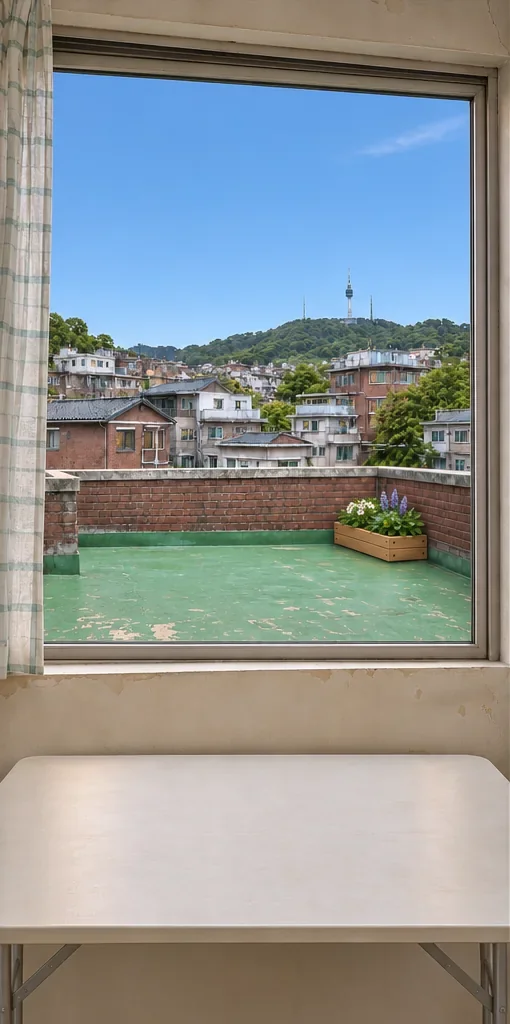
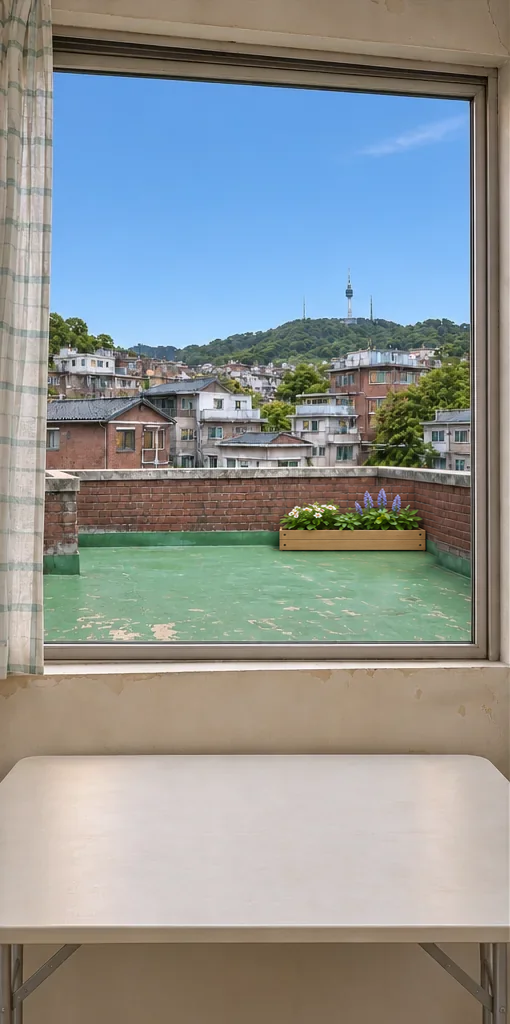
fix: sync moving surf and horizontal planter previews

Changed region(s): [[0.5294, 0.4688, 0.8529, 0.5625]]

diff --git a/web/premium-scene-previews.js b/web/premium-scene-previews.js
@@ -190,8 +190,9 @@
     }
   }
 
-  const imageRevision = '?v=day-framing-wind-2';
+  const imageRevision = '?v=day-framing-wind-3';
   const surfPhoto = 'assets/premium-scene-previews/east-sea-lighthouse-wind-surf.webp';
+  const surfLoop = 'assets/premium-scene-previews/east-sea-lighthouse-surf-loop.webp';
   const language = () => /^en/i.test(root.document.documentElement.lang) ? 1 : 0;
 
   function viewState({ time, weather, temperature, wind = false }) {
@@ -247,6 +248,9 @@
     const roughSea = scene.id === 'east-sea-lighthouse' ? doc.createElement('img') : null;
     const waterCanvas = water[scene.id] ? makeCanvas(artwork, 'WindWater') : null;
     const waterContext = waterCanvas?.getContext?.('2d');
+    const surfMask = roughSea ? layer(artwork, 'SurfMask') : null;
+    const animatedSurf = surfMask ? layer(surfMask, 'SurfLoop', 'img') : null;
+    if (surfMask) surfMask.hidden = true;
     const treeMask = layer(artwork, 'TreeMask');
     const trees = makeCanvas(treeMask, 'SwayingTrees');
     const treeContext = trees.getContext?.('2d');
@@ -295,7 +299,10 @@
     let waterFrame = 0;
     let lastFrame = -Infinity;
     let waterPhase = 0;
+    let surfRequested = false;
+    let surfFailed = false;
     const motion = root.matchMedia?.('(prefers-reduced-motion: reduce)');
+    const playWater = () => wind.value === 'on' || !motion?.matches;
     function stopWater() {
       if (waterFrame) root.cancelAnimationFrame(waterFrame);
       waterFrame = 0;
@@ -303,7 +310,7 @@
     }
     function animateWater(now) {
       waterFrame = 0;
-      if (stage.dataset.wind !== 'true' || !registered || motion?.matches || doc.hidden) return;
+      if (stage.dataset.wind !== 'true' || !registered || !playWater() || doc.hidden) return;
       if (now - lastFrame > 30) {
         if (Number.isFinite(lastFrame)) waterPhase += (now - lastFrame) / 1000;
         paintWater(waterContext, normalized, scene.id, waterPhase, stage.dataset.time, roughSea);
@@ -312,8 +319,29 @@
       waterFrame = root.requestAnimationFrame(animateWater);
     }
     function updateWater(refresh = false) {
+      const windy = stage.dataset.wind === 'true' && registered;
+      const showMotion = windy && playWater();
+      if (animatedSurf) {
+        if (showMotion && !surfRequested && !surfFailed) {
+          surfRequested = true;
+          animatedSurf.src = resolve(surfLoop);
+        } else if (!showMotion && surfRequested) {
+          surfRequested = false;
+          surfFailed = false;
+          animatedSurf.removeAttribute('src');
+        }
+        const playing = showMotion && surfRequested && !surfFailed &&
+          animatedSurf.complete && animatedSurf.naturalWidth > 0;
+        surfMask.hidden = !playing;
+        // The image decoder keeps the surf moving without page animation frames.
+        if (waterCanvas) waterCanvas.hidden = playing;
+        if (playing) {
+          stopWater();
+          return;
+        }
+      }
       if (!waterContext) return;
-      if (stage.dataset.wind !== 'true' || !registered) {
+      if (!windy) {
         stopWater();
         waterPhase = 0;
         waterContext.clearRect(0, 0, waterCanvas.width, waterCanvas.height);
@@ -324,7 +352,7 @@
       if (refresh || !waterFrame) {
         paintWater(waterContext, normalized, scene.id, waterPhase, stage.dataset.time, roughSea);
       }
-      if (motion?.matches || doc.hidden) stopWater();
+      if (!showMotion || doc.hidden) stopWater();
       else if (!waterFrame) {
         waterFrame = root.requestAnimationFrame(animateWater);
       }
@@ -352,6 +380,13 @@
       updateWater();
     });
     const refreshWater = () => updateWater(true);
+    const useStaticSurf = () => {
+      if (!surfRequested) return;
+      surfFailed = true;
+      refreshWater();
+    };
+    animatedSurf?.addEventListener('load', refreshWater);
+    animatedSurf?.addEventListener('error', useStaticSurf);
     if (roughSea) {
       roughSea.addEventListener('load', refreshWater);
       roughSea.src = resolve(surfPhoto);
@@ -402,6 +437,9 @@
     return () => {
       root.clearInterval(timer);
       stopWater();
+      animatedSurf?.removeEventListener('load', refreshWater);
+      animatedSurf?.removeEventListener('error', useStaticSurf);
+      if (surfRequested) animatedSurf.removeAttribute('src');
       roughSea?.removeEventListener('load', refreshWater);
       motion?.removeEventListener?.('change', refreshWater);
       doc.removeEventListener('visibilitychange', refreshWater);

diff --git a/design/prototypes/bloombreak-premium-backgrounds.html b/design/prototypes/bloombreak-premium-backgrounds.html
@@ -4,7 +4,7 @@
 <meta charset="utf-8">
 <meta name="viewport" content="width=device-width,initial-scale=1">
 <title>BloomBreak 유료 배경 미리보기</title>
-<link rel="stylesheet" href="../../web/premium-scene-previews.css?v=surf-visibility-1">
+<link rel="stylesheet" href="../../web/premium-scene-previews.css?v=surf-loop-1">
 <style>
 body{margin:0;padding:1rem;font:1rem system-ui,sans-serif;background:#f4f3ed;color:#202b24}
 main{max-width:65rem;margin:auto}h1{font-size:1.5rem}h2{font-size:1rem}
@@ -12,13 +12,14 @@ details{padding:.5rem .8rem;background:#fff;border-radius:.6rem}
 #previews{display:grid;grid-template-columns:repeat(auto-fit,minmax(16rem,1fr));gap:1rem}
 section{padding:.75rem;background:#fff;border-radius:.8rem}
 </style>
-<script src="../../web/premium-scene-previews.js?v=surf-visibility-1" defer></script>
+<script src="../../web/premium-scene-previews.js?v=surf-loop-1" defer></script>
 </head>
 <body>
 <main>
 <h1>유료 배경 미리보기</h1>
 <details id="design-history" open>
-<summary>수정 이력 · v1.5.1</summary>
+<summary>수정 이력 · v1.6.0</summary>
+<p>2026-11-21 · v1.6.0 · 바람을 직접 켜면 동해의 파도와 흰 포말이 3초 주기로 이어서 움직인다. 서울 옥탑방의 화단은 뒤쪽 난간과 나란하도록 가로로 배치했다.</p>
 <p>2026-11-21 · v1.5.1 · 동해는 바람을 켜면 첫 화면부터 바위 앞 파도와 흰 포말을 표시한다. 기기의 동작 줄이기 설정에서도 정지한 파도가 보인다.</p>
 <p>2026-11-21 · v1.5.0 · 옥탑방·동해 등대집은 낮 원본 좌표에 노을과 밤의 하늘·조명을 합성. 바람을 날씨에서 분리. 동해에 큰 쇄파와 포말, 호숫가에 잔잔한 물결과 반사를 표현. APK 발행 전.</p>
 <p>2026-11-21 · v1.4.0 · 서울 옥탑방 오른쪽의 에어컨 실외기를 작은 나무 화단으로 교체. 세 시간대의 맑음·비·눈 배경에 반영. APK 발행 전.</p>

diff --git a/web/premium-scene-previews.css b/web/premium-scene-previews.css
@@ -30,7 +30,7 @@
   --bb-water: polygon(14.5% 42%, 100% 41%, 100% 53.6%, 89% 50.5%, 71.2% 48.6%, 65% 51.5%, 91% 61.8%, 54% 59%, 14.5% 54.5%);
 }
 .bbPremiumRegisteredPlate, .bbPremiumWindowLayer, .bbPremiumTreeMask, .bbPremiumWeatherShade, .bbPremiumCloudMask,
-.bbPremiumPrecipitation, .bbPremiumWindWater { position: absolute; inset: 0; pointer-events: none; }
+.bbPremiumPrecipitation, .bbPremiumWindWater, .bbPremiumSurfMask { position: absolute; inset: 0; pointer-events: none; }
 .bbPremiumWindowLayer { clip-path: var(--bb-window); transform-origin: top left; }
 .bbPremiumPreviewStage[data-scene="seoul-rooftop"] .bbPremiumWindowLayer {
   clip-path: polygon(9.2% 6.9%, 12.1% 6.9%, 25% 12.6%, 25% 44.2%, 12.1% 48.5%, 9.2% 48.5%);
@@ -44,7 +44,15 @@
 .bbPremiumPreviewStage[data-wind="true"] :is(.bbPremiumTreeMask, .bbPremiumCloudMask, .bbPremiumWindWater) { visibility: visible; }
 .bbPremiumPrecipitation { clip-path: var(--bb-outside); }
 .bbPremiumCloudMask { clip-path: var(--bb-sky); }
-.bbPremiumWindWater { clip-path: var(--bb-water); }
+.bbPremiumWindWater, .bbPremiumSurfMask { clip-path: var(--bb-water); }
+.bbPremiumSurfMask .bbPremiumSurfLoop {
+  position: absolute;
+  /* The animation covers rows 413–637 of the 1024-pixel scenery plate. */
+  inset: 40.332% 0 auto;
+  height: 21.973%;
+}
+.bbPremiumPreviewStage[data-time="sunset"] .bbPremiumSurfLoop { filter: sepia(.2) brightness(.85) saturate(.86); }
+.bbPremiumPreviewStage[data-time="night"] .bbPremiumSurfLoop { filter: brightness(.63) saturate(.72); }
 .bbPremiumPreviewStage[data-wind="true"] .bbPremiumSwayingTrees { animation: bbPremiumTrees 3.3s ease-in-out infinite alternate; }
 .bbPremiumPreviewStage[data-wind="true"] .bbPremiumCloudMask {
   background: radial-gradient(ellipse 8% 2% at 68% 30%, #eef8ff6b 28%, transparent 100%),

diff --git a/design/README.md b/design/README.md
@@ -124,4 +124,4 @@
 
 ## 유료 배경 미리보기 (2026-11-21)
 
-- [서울 옥탑방 · 동해 등대가 보이는 집 · 호숫가 오두막](prototypes/bloombreak-premium-backgrounds.html) v1.5.1. 동해는 첫 애니메이션 프레임 전과 동작 줄이기 설정에서도 바위 앞 파도와 포말을 표시한다. 옥탑방·동해 등대집은 시간에 관계없이 낮 원본 구도 위에 하늘·조명만 바꾼다. 맑음·비·눈과 바람은 독립적으로 조절하며 동해는 쇄파·포말, 호숫가는 잔잔한 수면 움직임을 보여준다. 서울 옥탑방 실외기를 작은 나무 화단으로 바꾼다. 낮을 기준으로 시간대별 창틀·수평선·상판 위치를 보정하고, 옥탑방과 등대집의 창은 왼쪽으로 연다. 바람에는 동해 파도와 포말, 호숫가 잔물결과 반사를 수면에만 표현한다. 공간별로 낮·저녁(노을)·밤과 맑음·비·눈을 조합한 원본 9장과 실외 날씨 마스크를 시연한다. 맑은 낮은 구름을 최소화하고 저녁은 태양 없이 물든 구름만 보이며, 밤은 어두운 실외와 점등된 실내를 대비시킨다. 비·눈 원본은 구름, 젖은 실외 표면이나 쌓인 눈을 표현한다. 서울 옥탑방과 동해 등대집의 창은 맑고 온화한 낮·노을에 열고 밤·비·눈·흐림·10°C 미만에 닫는다. 동해의 평상시 해면은 잔잔하고 바람에는 파도와 포말이 움직인다. 개발 웹·Android 공통 자산 적용, 발행 APK 확인 전.
+- [서울 옥탑방 · 동해 등대가 보이는 집 · 호숫가 오두막](prototypes/bloombreak-premium-backgrounds.html) v1.6.0. 동해는 바람 켜짐에서 3초 파도 영상을 반복 재생하고, 옥탑방은 뒤쪽 난간과 나란한 가로 화단을 보여준다. 동해는 첫 애니메이션 프레임 전과 동작 줄이기 설정에서도 바위 앞 파도와 포말을 표시한다. 옥탑방·동해 등대집은 시간에 관계없이 낮 원본 구도 위에 하늘·조명만 바꾼다. 맑음·비·눈과 바람은 독립적으로 조절하며 동해는 쇄파·포말, 호숫가는 잔잔한 수면 움직임을 보여준다. 서울 옥탑방 실외기를 작은 나무 화단으로 바꾼다. 낮을 기준으로 시간대별 창틀·수평선·상판 위치를 보정하고, 옥탑방과 등대집의 창은 왼쪽으로 연다. 바람에는 동해 파도와 포말, 호숫가 잔물결과 반사를 수면에만 표현한다. 공간별로 낮·저녁(노을)·밤과 맑음·비·눈을 조합한 원본 9장과 실외 날씨 마스크를 시연한다. 맑은 낮은 구름을 최소화하고 저녁은 태양 없이 물든 구름만 보이며, 밤은 어두운 실외와 점등된 실내를 대비시킨다. 비·눈 원본은 구름, 젖은 실외 표면이나 쌓인 눈을 표현한다. 서울 옥탑방과 동해 등대집의 창은 맑고 온화한 낮·노을에 열고 밤·비·눈·흐림·10°C 미만에 닫는다. 동해의 평상시 해면은 잔잔하고 바람에는 파도와 포말이 움직인다. 개발 웹·Android 공통 자산 적용, 발행 APK 확인 전.
